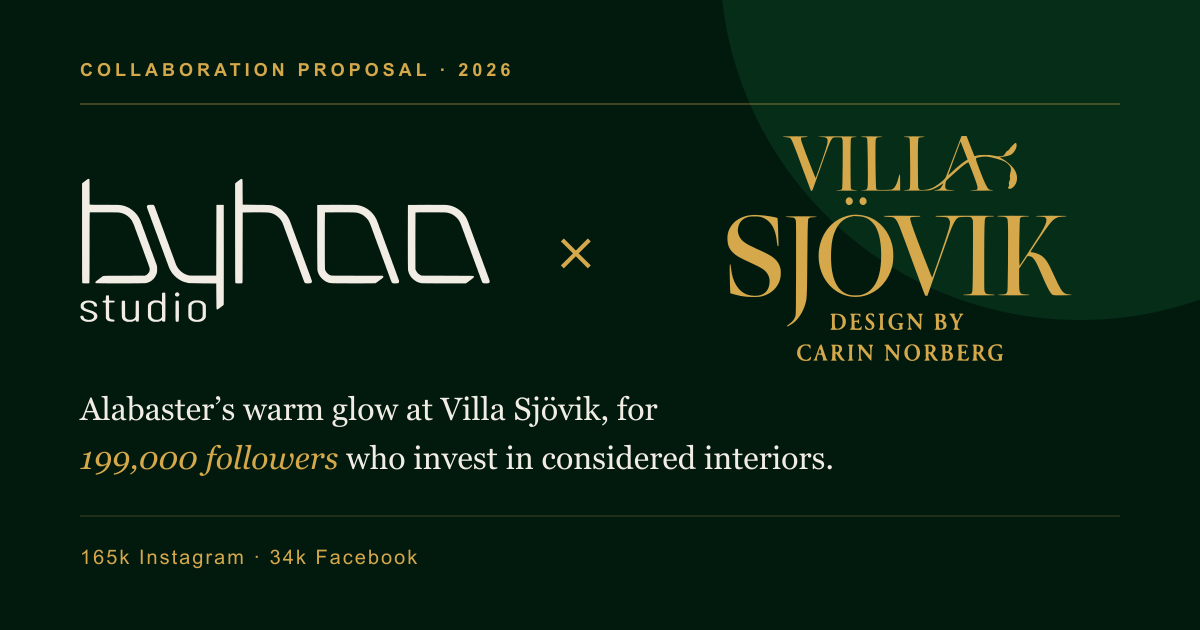
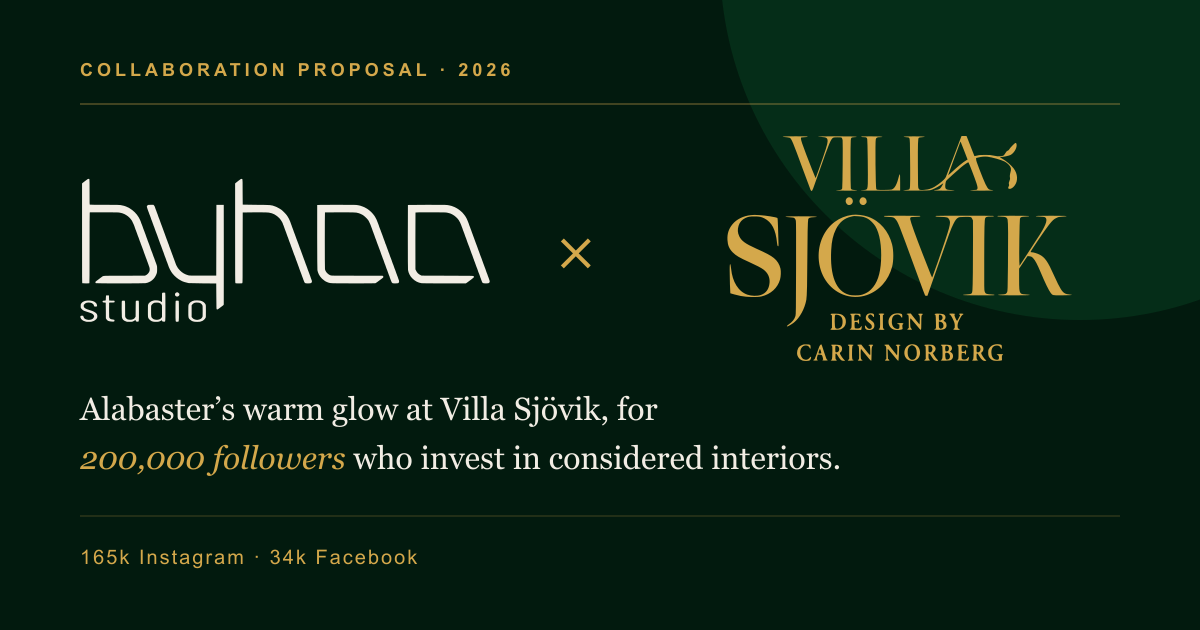
Video Pack 1 000 EUR med betalplan, Carins produktval (2026-10-19)

Changed region(s): [[0.0617, 0.6937, 0.7092, 0.754]]

diff --git a/index.html b/index.html
@@ -6,7 +6,7 @@
 <title>Studio Byhaa × Villa Sjövik</title>
 <link rel="icon" type="image/png" href="./studio-byhaa-favicon.png"/>
 <meta property="og:title" content="Studio Byhaa × Villa Sjövik — Collaboration proposal 2026"/>
-<meta property="og:description" content="Alabaster’s warm glow at Villa Sjövik, for 199,000 followers who invest in considered interiors."/>
+<meta property="og:description" content="Alabaster’s warm glow at Villa Sjövik, for 200,000 followers who invest in considered interiors."/>
 <meta property="og:image" content="https://villasjovik.github.io/studio-byhaa/og-image.png"/>
 <meta property="og:image:width" content="1200"/>
 <meta property="og:image:height" content="630"/>
@@ -15,7 +15,7 @@
 <meta property="og:type" content="website"/>
 <meta name="twitter:card" content="summary_large_image"/>
 <meta name="twitter:title" content="Studio Byhaa × Villa Sjövik — Collaboration proposal 2026"/>
-<meta name="twitter:description" content="Alabaster’s warm glow at Villa Sjövik, for 199,000 followers who invest in considered interiors."/>
+<meta name="twitter:description" content="Alabaster’s warm glow at Villa Sjövik, for 200,000 followers who invest in considered interiors."/>
 <meta name="twitter:image" content="https://villasjovik.github.io/studio-byhaa/og-image.png"/>
 <link rel="preconnect" href="https://fonts.googleapis.com"/>
 <link rel="preconnect" href="https://fonts.gstatic.com" crossorigin/>
@@ -614,6 +614,22 @@ background:linear-gradient(90deg,transparent,var(--gold),transparent);transform:
 .price-grid>.pkg-col.featured{--pb-scale:1;z-index:2}
 .pkg-col:hover{--pb-rot:0deg!important;--pb-hover:-8px}
 
+/* Muted reference packages, following the delivered Etzinger page. */
+.pkg-col.is-muted{--pb-rot:0deg!important;--pb-scale:.86;animation:none!important;pointer-events:none}
+.body-loaded .price-grid>.pkg-col.is-muted.rv:not(.in){--pb-rot:0deg!important}
+.body-loaded .price-grid>.pkg-col.is-muted.rv.in{opacity:.42}
+@media(prefers-reduced-motion:reduce){
+  .body-loaded .price-grid>.pkg-col.is-muted.rv{opacity:.42!important}
+}
+.pkg-col.is-muted .price-box{filter:grayscale(1);
+  border-color:rgba(242,237,228,.14);border-top-color:rgba(242,237,228,.2);
+  background:linear-gradient(145deg,rgba(242,237,228,.035) 0%,rgba(242,237,228,.012) 100%);
+  box-shadow:0 26px 60px rgba(0,0,0,.5),inset 0 1px 0 rgba(255,255,255,.04)}
+.pkg-col.is-muted .price-box::before{opacity:0}
+.pkg-col.is-muted .price-plate{transform:none;background:rgba(0,0,0,.2);border-color:rgba(242,237,228,.1)}
+.pkg-col.is-muted .price-title{margin-top:14px}
+.pkg-col.is-muted .pi:hover{transform:none}
+
 /* Three-zone signable document. NOTE: backdrop-filter + overflow:hidden removed —
    both flatten 3D and would kill the counter-rotated price plate. */
 .price-box{border:1px solid rgba(212,168,75,.2);border-top:2px solid rgba(212,168,75,.45);border-radius:22px;
@@ -682,13 +698,14 @@ box-shadow:
 .price-title{font-family:'Playfair Display',serif;font-size:30px;font-weight:500;color:var(--ink);margin-bottom:8px;line-height:1.05;letter-spacing:-.005em}
 .price-sub{font-family:'Inter',sans-serif;font-size:12px;color:rgba(242,237,228,.7);letter-spacing:.03em;line-height:1.6;font-weight:400;
   padding-bottom:24px;border-bottom:1px solid rgba(212,168,75,.14);margin-bottom:28px}
-/* no-wrap: .price-sub "3 videor · 6 stories…" ≈ column width — size frozen at 12px, alpha lift only */
+/* Keep package summaries at the established 12px size. */
 .price-total-lbl{font-size:10px;letter-spacing:.24em;text-transform:uppercase;color:var(--gold);margin-bottom:12px}
 /* anchor-price story — legible anchor, gold strike that draws in on reveal */
 .price-orig{font-family:'Inter',sans-serif;font-size:15px;font-weight:300;color:rgba(242,237,228,.55);text-decoration:none;position:relative;display:inline-block;margin-bottom:6px;letter-spacing:.02em}
 .price-orig::after{content:'';position:absolute;left:0;top:54%;width:100%;height:1.5px;background:rgba(212,168,75,.6);
   transform:scaleX(0);transform-origin:left;transition:transform .5s var(--ease) .35s}
 .price-box.in .price-orig::after{transform:scaleX(1)}
+.price-save{display:inline-block;margin-top:14px;padding:6px 11px;border:1px solid rgba(212,168,75,.55);border-radius:100px;background:rgba(212,168,75,.14);color:var(--gold2);font-size:12px;font-weight:600;letter-spacing:.03em}
 .price-total{font-family:'Playfair Display',serif;font-size:clamp(32px,4vw,58px);font-weight:500;color:var(--ink);line-height:1;
   font-feature-settings:"tnum" 1,"lnum" 1;letter-spacing:-.01em}
 .cu{font-feature-settings:"tnum" 1,"lnum" 1}
@@ -736,6 +753,13 @@ box-shadow:
 .body-loaded .price-box.in .pi:nth-child(3){animation-delay:.34s}
 .body-loaded .price-box.in .pi:nth-child(4){animation-delay:.4s}
 .body-loaded .price-box.in .pi:nth-child(5){animation-delay:.46s}
+
+.price-context{margin-top:22px;font-size:13px;line-height:1.65;color:rgba(242,237,228,.75)}
+.price-payment{margin-top:22px;padding:18px 16px;border:1px solid rgba(212,168,75,.3);border-radius:12px;background:rgba(212,168,75,.045);font-size:13px;line-height:1.6}
+.price-payment h4{font-size:12px;font-weight:600;color:var(--gold);margin-bottom:10px}
+.price-payment p+p{margin-top:8px}
+.price-payment strong{color:var(--gold2);font-weight:600}
+.price-payment .payment-note{font-size:12px;color:rgba(242,237,228,.7)}
 
 /* Per-paket Reach Boost — green "handle" container ABOVE the price-card. */
 .pkg-boost{
@@ -1343,7 +1367,7 @@ position:relative;overflow:hidden;transition:color .35s}
       </div>
     </div>
     <div class="h-tag-p" data-par="5,4">
-    <h1 class="h-tagline">Alabaster’s warm glow at Villa Sjövik, for <em>199,000 followers</em> who invest in considered interiors.</h1>
+    <h1 class="h-tagline">Alabaster’s warm glow at Villa Sjövik, for <em>200,000 followers</em> who invest in considered interiors.</h1>
     </div>
     <div class="h-scroll" aria-hidden="true">
       <span>Explore</span>
@@ -1394,35 +1418,35 @@ position:relative;overflow:hidden;transition:color .35s}
 <section id="sec-spar">
   <div class="sp-orb sp-orb-1" aria-hidden="true"></div>
   <div class="sp-inner">
-    <p class="sec-lbl rv">Three ideas, one open route</p>
-    <h2 class="sec-h2 ws rv">Three ways to make <em>alabaster memorable.</em></h2>
+    <p class="sec-lbl rv">Three ideas for one video</p>
+    <h2 class="sec-h2 ws rv">One video to make <em>the lamp wanted.</em></h2>
     <div class="sp-grid sp-grid-3plus1">
 
       <div class="sp-c rv d1">
         <i class="sp-bg" data-n="01" aria-hidden="true"></i>
         <p class="sp-eyebrow">Route 01</p>
-        <h3>Make the glow recognisable</h3>
-        <p class="sp-sub">“Let the material carry the name”</p>
-        <p class="sp-body">Curra’s natural veining and warm glow become the link between Studio Byhaa and the moment the evening light changes at Villa Sjövik. The goal is to build recognition for your alabaster lamps and bring interested viewers to the Curra collection through stories with direct links.</p>
-        <div class="sp-foot"><span class="sp-tag">Recognition &middot; Alabaster &middot; Shop visits</span></div>
+        <h3>From inspiration to a purchase</h3>
+        <p class="sp-sub">“Make the lamp part of the evening”</p>
+        <p class="sp-body">Two round Applique sconces in brass and alabaster frame a table setting at Villa Sjövik, with the Small and Medium alabaster Box Sandoux as decorative details below. The lamps lead the scene, with close-ups of their veining and warm glow giving viewers a reason to look closer. Two stories with direct links connect that interest to the product. The goal is store visits that lead to lamp sales.</p>
+        <div class="sp-foot"><span class="sp-tag">Desire &middot; Shop visits &middot; Sales</span></div>
       </div>
 
       <div class="sp-c rv d2">
         <i class="sp-bg" data-n="02" aria-hidden="true"></i>
         <p class="sp-eyebrow">Route 02</p>
-        <h3>One material, more rooms</h3>
-        <p class="sp-sub">“Give the collection a wider place”</p>
-        <p class="sp-body">The same alabaster glow connects a windowsill at dusk, a bedside table and a dining table, with Curra and Cylinder Nusseen offering different expressions of the material. The goal is to help buyers picture more than one place for Studio Byhaa in their homes and explore more of your table lamp collection.</p>
-        <div class="sp-foot"><span class="sp-tag">Consideration &middot; Collection &middot; Demand</span></div>
+        <h3>A reason to choose alabaster</h3>
+        <p class="sp-sub">“Let the glow create desire”</p>
+        <p class="sp-body">The round Applique pair is the focal point of an evening scene at Villa Sjövik. As daylight fades, close-ups show the glow through the alabaster alongside the brass, with the Small and Medium alabaster Box Sandoux adding stone details on the table below. The two sconces remain the main subject. The goal is to bring interested buyers to the Applique in your shop through the linked stories.</p>
+        <div class="sp-foot"><span class="sp-tag">Material &middot; Desire &middot; Shop visits</span></div>
       </div>
 
       <div class="sp-c rv d3">
         <i class="sp-bg" data-n="03" aria-hidden="true"></i>
         <p class="sp-eyebrow">Route 03</p>
-        <h3>A signature for your own ads</h3>
-        <p class="sp-sub">“Keep the glow working for you”</p>
-        <p class="sp-body">Alabaster’s changing character, from veined stone in daylight to a warm glow after dark, gives Studio Byhaa a recognisable theme across a campaign at Villa Sjövik. The goal is a coherent set of video and images that you own and can use in your own channels, website and paid advertising to reach future buyers.</p>
-        <div class="sp-foot"><span class="sp-tag">Owned content &middot; Advertising &middot; Brand value</span></div>
+        <h3>Let the video keep selling</h3>
+        <p class="sp-sub">“Keep the feeling working in your ads”</p>
+        <p class="sp-body">A pair of round Applique sconces in brass and alabaster frames a bedside setting at Villa Sjövik, with the Small and Medium alabaster Box Sandoux as decorative details beside the bed. Close-ups bring the brass and alabaster into view alongside the wider scene, so viewers recognise the lamps in your shop. After publication in Villa Sjövik’s channels, the same video can continue in Studio Byhaa’s own advertising. The goal is repeat product visits and more lamp sales.</p>
+        <div class="sp-foot"><span class="sp-tag">Own ads &middot; Product visits &middot; Sales</span></div>
       </div>
 
       <div class="sp-divider rv" aria-hidden="true"></div>
@@ -1435,11 +1459,11 @@ position:relative;overflow:hidden;transition:color .35s}
           <div>
             <p class="sp-eyebrow">Route 04</p>
             <h3>Your setup</h3>
-            <p class="sp-sub">“Shaped around Studio Byhaa’s own priorities”</p>
+            <p class="sp-sub">“One video, shaped around your priorities”</p>
           </div>
-          <p class="sp-body">The routes can be shaped around your product priorities, a campaign period or an idea of your own. Share what would lift Studio Byhaa’s communication right now, and Villa Sjövik shapes the campaign around it.</p>
+          <p class="sp-body">Choose a direction for one video and 2 stories with direct links and CTA, published the same day in Villa Sjövik’s channels. The Video Pack payment plan is €500 received by 1 December 2026 and €500 by 1 January 2027. Send the selected products to Villa Sjövik. Concept and schedule approved with Studio Byhaa before filming. The goal is to bring buyers to your shop and support lamp sales.</p>
         </div>
-        <span class="sp-tag">Product priority &middot; Your brief &middot; Flexible campaign</span>
+        <span class="sp-tag">One video &middot; Your brief &middot; Sales</span>
       </div>
 
     </div>
@@ -1462,8 +1486,8 @@ position:relative;overflow:hidden;transition:color .35s}
     <!-- Landskortet borttaget ur kanon (Lucas 2026-09-18). Korten staplas i en kolumn och rubriken till vänster följer med vid skroll, som V2-formen (Lucas 2026-09-21). -->
     <div class="stats-grid" lang="en">
       <div class="sc rv d1">
-        <div class="sc-bg" aria-hidden="true">199</div>
-        <span class="sc-num"><span class="cu" data-v="199000" data-sep="true">199,000</span></span>
+        <div class="sc-bg" aria-hidden="true">200</div>
+        <span class="sc-num"><span class="cu" data-v="200000" data-sep="true">200,000</span></span>
         <p class="sc-sub">165k Instagram &middot; 34k Facebook</p>
         <p class="sc-lbl">Followers in total</p>
       </div>
@@ -1491,11 +1515,11 @@ position:relative;overflow:hidden;transition:color .35s}
   <div class="pr-orb pr-orb-2" aria-hidden="true"></div>
   <div class="pr-inner">
     <p class="sec-lbl rv">Collaboration overview</p>
-    <h2 class="sec-h2 ws rv" lang="en">Two ways to build <em class="pi-reach">story and reach.</em></h2>
+    <h2 class="sec-h2 ws rv" lang="en">Three packages. <em class="pi-reach">Start with video.</em></h2>
 
-    <div class="price-grid">
+    <div class="price-grid three">
 
-      <div class="pkg-col rv d1" data-pkg-col="start">
+      <div class="pkg-col featured rv d1" data-pkg-col="start">
         <div class="pkg-boost" role="group" aria-pressed="false" data-pkg="start">
           <button type="button" class="pkg-boost-head" aria-pressed="false" aria-controls="pkg-boost-body-start" aria-label="Activate Meta reach for Video Pack">
             <span class="pkg-boost-switch" aria-hidden="true"></span>
@@ -1521,19 +1545,29 @@ position:relative;overflow:hidden;transition:color .35s}
             </div>
           </div>
         </div>
-        <div class="price-box rv" data-pkg-box="start">
+        <div class="price-box featured rv" data-pkg-box="start">
+          <i class="pr-sheen" aria-hidden="true"></i>
           <i class="pr-bg" data-n="01" aria-hidden="true"></i>
+          <span class="price-ribbon">Recommended &middot; BEST VALUE</span>
           <h3 class="price-title">Video Pack</h3>
-          <p class="price-sub">1 video &middot; 2 stories with CTA &middot; 10 lifestyle images</p>
+          <p class="price-sub">1 video &middot; 2 stories with CTA</p>
           <div class="price-plate">
           <p class="price-total-lbl">Production fee</p>
-          <p class="price-total" data-base="1850" data-boost="2850">1,850</p>
+          <p class="price-orig" data-base="reg. €1,850" data-boost="reg. €2,850">reg. €1,850</p>
+          <p class="price-total" data-base="1000" data-boost="2000">1,000</p>
           <span class="price-unit">EUR</span>
+          <span class="price-save">Save €850</span>
+          </div>
+          <p class="price-context">With your own photographer in-house, this package focuses on video and stories, with no separate lifestyle images. It is Villa Sjövik’s best-value format, offered at a first-collaboration price for Studio Byhaa.</p>
+          <div class="price-payment" aria-label="Video Pack payment plan">
+            <h4>Video Pack payment plan</h4>
+            <p><strong>€500</strong> received by <time datetime="2026-12-01">1 December 2026</time></p>
+            <p><strong>€500</strong> received by <time datetime="2027-01-01">1 January 2027</time></p>
+            <p class="payment-note">Invoices are issued well ahead of each date. Payment must have reached Villa Sjövik by the stated dates.</p>
           </div>
           <div class="price-includes">
-            <p class="pi hi"><span>1 video published in Villa Sjövik's channels <em class="pi-reach">for 199,000 followers</em></span></p>
-            <p class="pi hi"><span>2 stories with direct link and CTA</span></p>
-            <p class="pi hi"><span>10 lifestyle images in an authentic home setting</span></p>
+            <p class="pi hi"><span>1 video published in Villa Sjövik’s Instagram and Facebook channels <em class="pi-reach">for 200,000 followers</em></span></p>
+            <p class="pi hi"><span>2 stories with direct link and CTA in Villa Sjövik’s channels, on the same day as the video</span></p>
             <p class="pi"><span>You own all delivered material, with permanent usage rights for your channels, website and paid advertising.</span></p>
             <p class="pi"><span>Concept and schedule approved with Studio Byhaa; styling, filming and editing included</span></p>
             <p class="pi"><span>Published videos remain permanently in Villa Sjövik’s channels.</span></p>
@@ -1541,47 +1575,40 @@ position:relative;overflow:hidden;transition:color .35s}
         </div>
       </div>
 
-      <!-- Kampanjpaket (featured) -->
-      <div class="pkg-col featured rv d2" data-pkg-col="season">
-        <div class="pkg-boost" role="group" aria-pressed="false" data-pkg="season">
-          <button type="button" class="pkg-boost-head" aria-pressed="false" aria-controls="pkg-boost-body-season" aria-label="Activate Meta reach for Campaign Package">
-            <span class="pkg-boost-switch" aria-hidden="true"></span>
-            <span class="pkg-boost-text">
-              <span class="pkg-boost-tag">Optional &middot; <em>Reach Boost</em></span>
-              <span class="pkg-boost-title">Meta reach budget <span class="pkg-boost-price" data-bt-price="season">+€3,000</span></span>
-            </span>
-          </button>
-          <div class="pkg-boost-body" id="pkg-boost-body-season" aria-hidden="true">
-            <div class="pkg-boost-body-inner">
-              <p class="pkg-boost-desc" data-pkg-desc="season">All three productions receive retargeting. The videos are shown again to previous viewers, adding over <strong class="pkg-boost-stat" data-bt-stat="season">450,000</strong> impressions with clickable links that direct traffic to your online shop.</p>
-              <p class="pkg-boost-desc-zero" data-pkg-desc-zero="season" hidden>Choose a budget below to see how many extra impressions the package delivers.</p>
-              <div class="pkg-slider">
-                <label class="pkg-slider-lbl" for="pk-range-season">Meta budget per production</label>
-                <input id="pk-range-season" class="pkg-range" type="range" min="0" max="3" step="1" value="2" data-pkg-slider="season" aria-label="Meta budget per production for Campaign Package"/>
-                <div class="pkg-ticks" aria-hidden="true">
-                  <span class="pkg-tick" data-pkg-tick="season" data-step="0">€0</span>
-                  <span class="pkg-tick" data-pkg-tick="season" data-step="1">€500</span>
-                  <span class="pkg-tick is-active" data-pkg-tick="season" data-step="2">€1,000</span>
-                  <span class="pkg-tick" data-pkg-tick="season" data-step="3">€2,000</span>
-                </div>
-              </div>
-            </div>
+      <!-- Muted reference package; photo-only production. -->
+      <div class="pkg-col is-muted rv d2" aria-disabled="true" data-pkg-col="content">
+        <div class="price-box rv" data-pkg-box="content">
+          <i class="pr-bg" data-n="02" aria-hidden="true"></i>
+          <h3 class="price-title">Content Package</h3>
+          <p class="price-sub">20 product and lifestyle images</p>
+          <div class="price-plate">
+            <p class="price-total-lbl">Price</p>
+            <p class="price-total" data-base="1200">1,200</p>
+            <span class="price-unit">EUR</span>
+          </div>
+          <div class="price-includes">
+            <p class="pi hi"><span>20 product and lifestyle images, photographed in a home setting at Villa Sjövik</span></p>
+            <p class="pi hi"><span>Permanent media rights for your website, own channels and paid ads, with no time limit</span></p>
+            <p class="pi hi"><span>Villa Sjövik receives your products, photographs an extensive image library at home and sends all 20 images to Studio Byhaa</span></p>
+            <p class="pi"><span>Styling, photography and editing included</span></p>
+            <p class="pi"><span>Photography for your own use, without publication in Villa Sjövik’s channels</span></p>
           </div>
         </div>
-        <div class="price-box featured rv" data-pkg-box="season">
-          <i class="pr-sheen" aria-hidden="true"></i>
-          <i class="pr-bg" data-n="02" aria-hidden="true"></i>
-          <span class="price-ribbon">Recommended &middot; BEST VALUE</span>
+      </div>
+
+
+      <div class="pkg-col is-muted rv d3" aria-disabled="true" data-pkg-col="campaign">
+        <div class="price-box rv" data-pkg-box="campaign">
+          <i class="pr-bg" data-n="03" aria-hidden="true"></i>
           <h3 class="price-title">Campaign Package</h3>
           <p class="price-sub">3 videos &middot; 6 stories with CTA &middot; 60 lifestyle images</p>
           <div class="price-plate">
-          <p class="price-total-lbl">Production fee</p>
-          <p class="price-orig" data-base="reg. €5,550" data-boost="reg. €8,550">reg. €5,550</p>
-          <p class="price-total" data-base="3500" data-boost="6500">3,500</p>
-          <span class="price-unit">EUR</span>
+            <p class="price-total-lbl">Production fee</p>
+            <p class="price-total" data-base="3000">3,000</p>
+            <span class="price-unit">EUR</span>
           </div>
           <div class="price-includes">
-            <p class="pi hi"><span>3 videos published in Villa Sjövik's channels <em class="pi-reach">for 199,000 followers</em></span></p>
+            <p class="pi hi"><span>3 videos published in Villa Sjövik’s Instagram and Facebook channels <em class="pi-reach">for 200,000 followers</em></span></p>
             <p class="pi hi"><span>6 stories with direct link and CTA</span></p>
             <p class="pi hi"><span>60 lifestyle images in an authentic home setting</span></p>
             <p class="pi"><span>You own all delivered material, with permanent usage rights for your channels, website and paid advertising.</span></p>
@@ -2121,8 +2148,8 @@ document.querySelectorAll('.gc,.lc,.sp-c').forEach(card=>{
 
   // Step values: €0, €500, €1,000, €2,000 per production.
   const STEP_VALUES=[0,500,1000,2000];
-  const cardBudget={start:1000, season:1000};
-  const PKG_MULT={start:1, season:3};
+  const cardBudget={start:1000};
+  const PKG_MULT={start:1};
 
   function stepFromBudget(b){
     let idx=STEP_VALUES.indexOf(b);
@@ -2345,12 +2372,10 @@ document.querySelectorAll('.gc,.lc,.sp-c').forEach(card=>{
 
   // Initial render
   refreshCard('start');
-  refreshCard('season');
 })();
 
-/* META-RÄCKVIDD AUTO-AKTIVERING — Kampanjpaket (featured) togglar ON automatiskt
-   när investerings-sektionen står stilla i view en kort stund, visas ett par
-   sekunder och stängs sedan av igen → tillbaka till Kampanjpaketets originalpris. */
+/* REACH BOOST AUTO-DEMO — the featured Video Pack opens briefly,
+   then returns to its €1,000 base fee and reg. €1,850 anchor. */
 (function(){
   const sec=document.getElementById('sec-pr');
   const btn=document.querySelector('.pkg-col.featured .pkg-boost-head');
